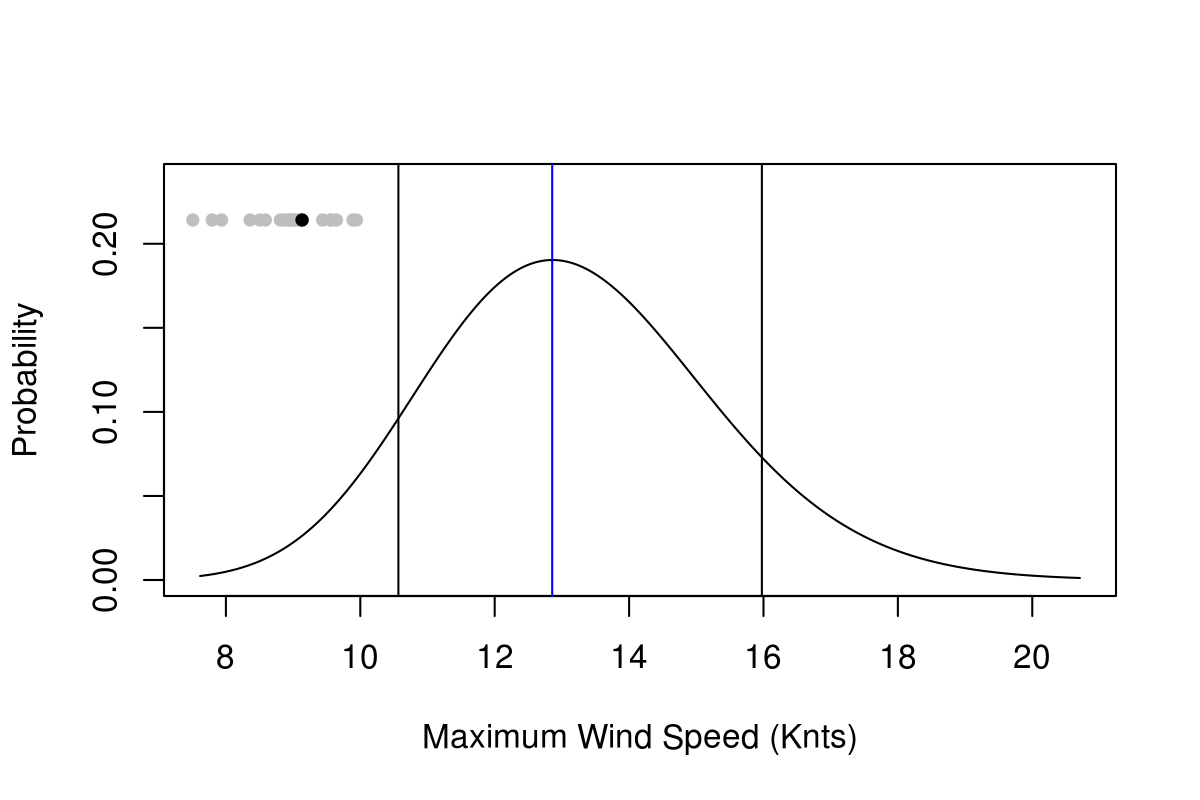
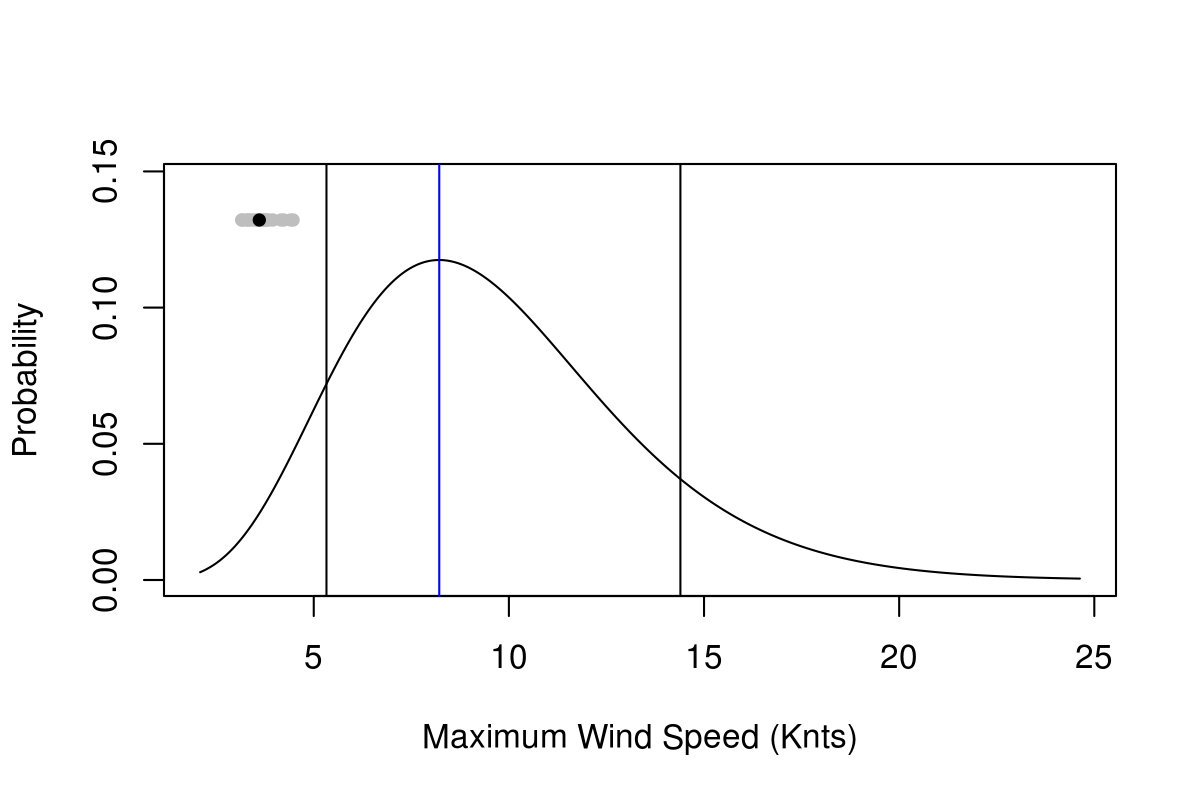
updated wxchallenge.md

diff --git a/wxchallenge.md b/wxchallenge.md
@@ -3,7 +3,7 @@ layout: page
 title: WxChallenge
 ---
 
-This page provides some tools I use to help me in the [WxChallenge](http://www.wxchallenge.com/). The current city is Grand Island, NE (KGRI).
+This page provides some tools I use to help me in the [WxChallenge](http://www.wxchallenge.com/). The current city is Reno, NV (KRNO).
 
 * [NWS Forecast](http://forecast.weather.gov/MapClick.php?lat=40.95833&lon=-98.3125#.WA5O-nUrIkg)
 * [3-Day Obs](http://w1.weather.gov/data/obhistory/KGRI.html)
@@ -11,11 +11,11 @@ This page provides some tools I use to help me in the [WxChallenge](http://www.w
 * [SREF Plume Viewer](http://www.spc.noaa.gov/exper/sref/srefplumes/)
 * [WxChallenge WxData](http://www.wxchallenge.com/tools/weatherdata.php)
 
-## Calibrated PDFs for KGRI for Friday, November 4
+## Calibrated PDFs for KRNO for Tuesday, November 8
 
 For information on Bayesian Model Averaging (BMA), scroll to the [bottom of this page](#bma). Click on each image to enlarge it.
 
-> Plots updated 2016-11-03 17:30 GMT
+> Plots updated 2016-11-07 15:31 GMT
 
 <p align="center"><strong>Maximum Temperature</strong></p>
 [<img src="tmax.png" width="700"/>](tmax.png)
